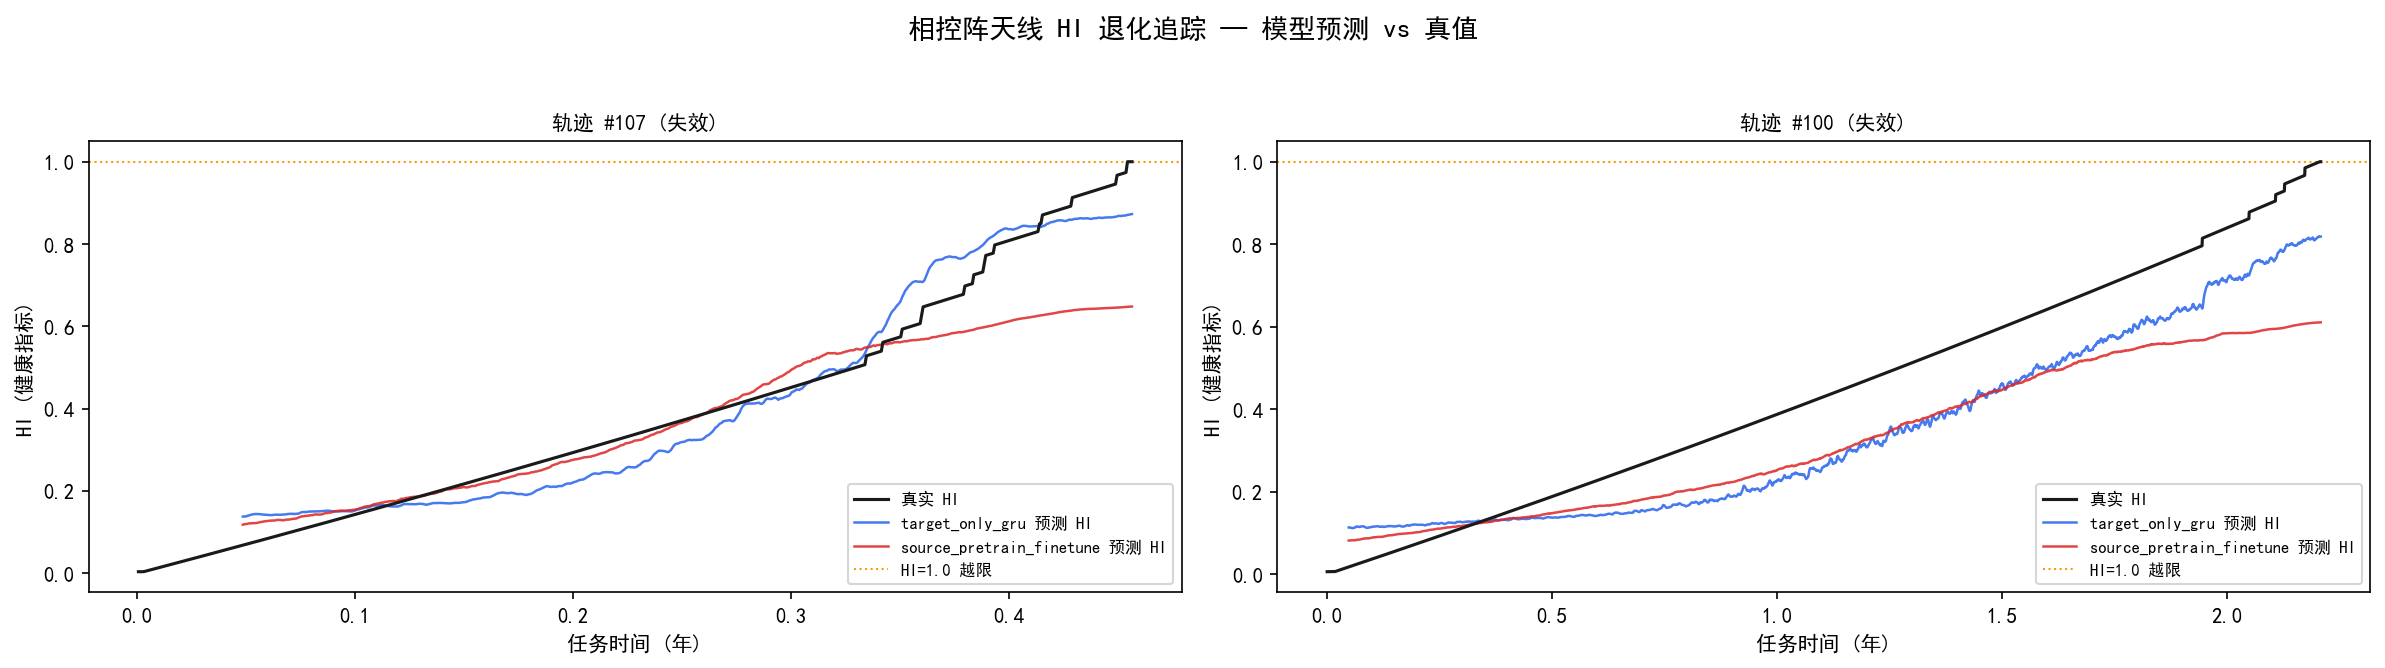
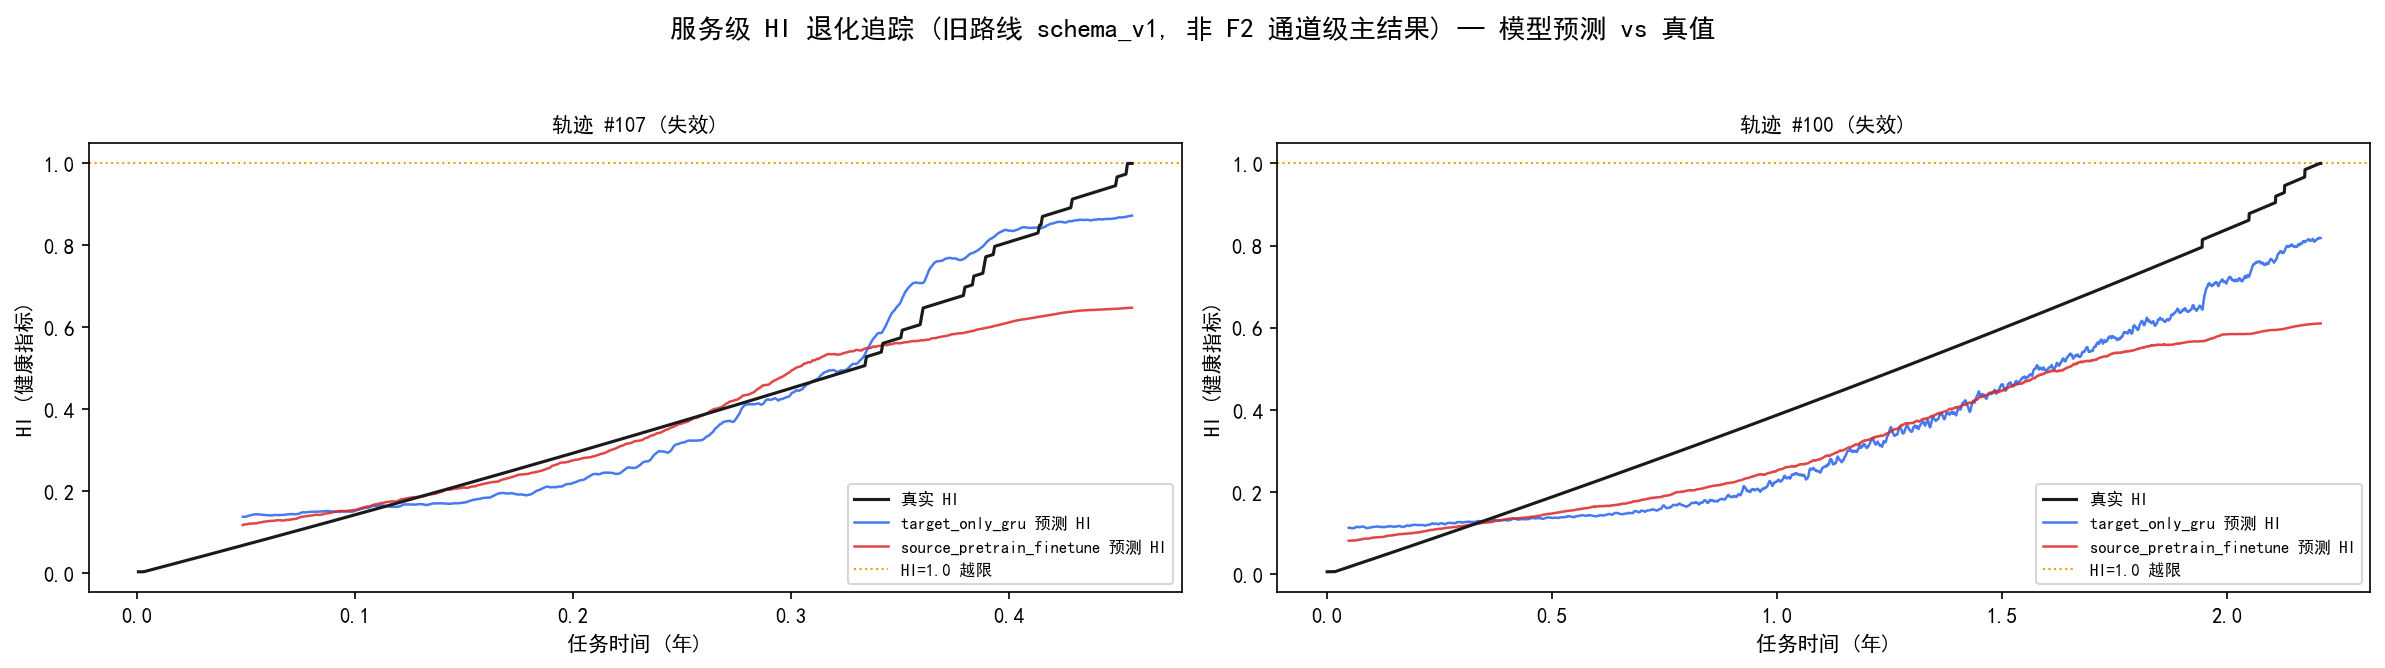
figures(v0.3.0): 6 图按当前候选数据重生成 + 服务级三图加旧路线标注
审计整改: docs/figures 8 张 PNG 原为 2026-08-15 基线导入, 未随
F1/F2 v2 口径更新。本次:
- 通道级 3 图 (ch_rul_scatter/ch_rul_trajectory_panel/
  ch_hi_spatial_diversity) 由 F1-A v2 适配脚本从当前 canonical
  channel_features.h5 (H=11688 双字段) 重生成;
- 服务级 3 图 (rul_scatter/rul_trajectory_panel/hi_tracking_panel)
  从 schema_v1 target_features 重生成, 标题加'服务级 (旧路线
  schema_v1, 非 F2 通道级主结果)'标注, 不冒充通道级主结果;
- 物理两图 (pa_pattern_degradation/pa_hotspot_field) 同候选
  config+seed42 重生成, 与已提交版本逐字节一致 (确定性自证,
  无 diff 不提交);
- plot_trajectory.py 标题三处加旧路线口径。

diff --git a/scripts/plot_trajectory.py b/scripts/plot_trajectory.py
@@ -334,7 +334,7 @@ def plot_rul_trajectory(models_pred, traj_infos, h5_path, rul_max, out_path):
         axes[idx // 3][idx % 3].set_visible(False)
 
     f.close()
-    fig.suptitle("相控阵天线 RUL 预测轨迹 — 模型 vs 真值 vs 基线", fontsize=13, fontweight="bold")
+    fig.suptitle("服务级 RUL 预测轨迹 (旧路线 schema_v1, 非 F2 通道级主结果) — 模型 vs 真值 vs 基线", fontsize=13, fontweight="bold")
     fig.tight_layout(rect=[0, 0, 1, 0.96])
     fig.savefig(out_path, dpi=150, bbox_inches="tight")
     plt.close(fig)
@@ -376,7 +376,7 @@ def plot_hi_tracking(models_pred, traj_infos, h5_path, out_path):
         ax.legend(fontsize=8)
 
     f.close()
-    fig.suptitle("相控阵天线 HI 退化追踪 — 模型预测 vs 真值", fontsize=13, fontweight="bold")
+    fig.suptitle("服务级 HI 退化追踪 (旧路线 schema_v1, 非 F2 通道级主结果) — 模型预测 vs 真值", fontsize=13, fontweight="bold")
     fig.tight_layout(rect=[0, 0, 1, 0.94])
     fig.savefig(out_path, dpi=150, bbox_inches="tight")
     plt.close(fig)
@@ -454,7 +454,7 @@ def plot_rul_scatter(model, data, device, out_path, model_label="target_only_gru
 
     ax.set_xlabel("真实 RUL (归一化)", fontsize=11)
     ax.set_ylabel("预测 RUL (归一化)", fontsize=11)
-    ax.set_title(f"全测试集 RUL 散点 — {model_label}", fontsize=12, fontweight="bold")
+    ax.set_title(f"服务级全测试集 RUL 散点 (旧路线 schema_v1) — {model_label}", fontsize=12, fontweight="bold")
     ax.legend(fontsize=9, loc="lower right")
     ax.set_xlim(0, 1.05)
     ax.set_ylim(0, 1.05)
